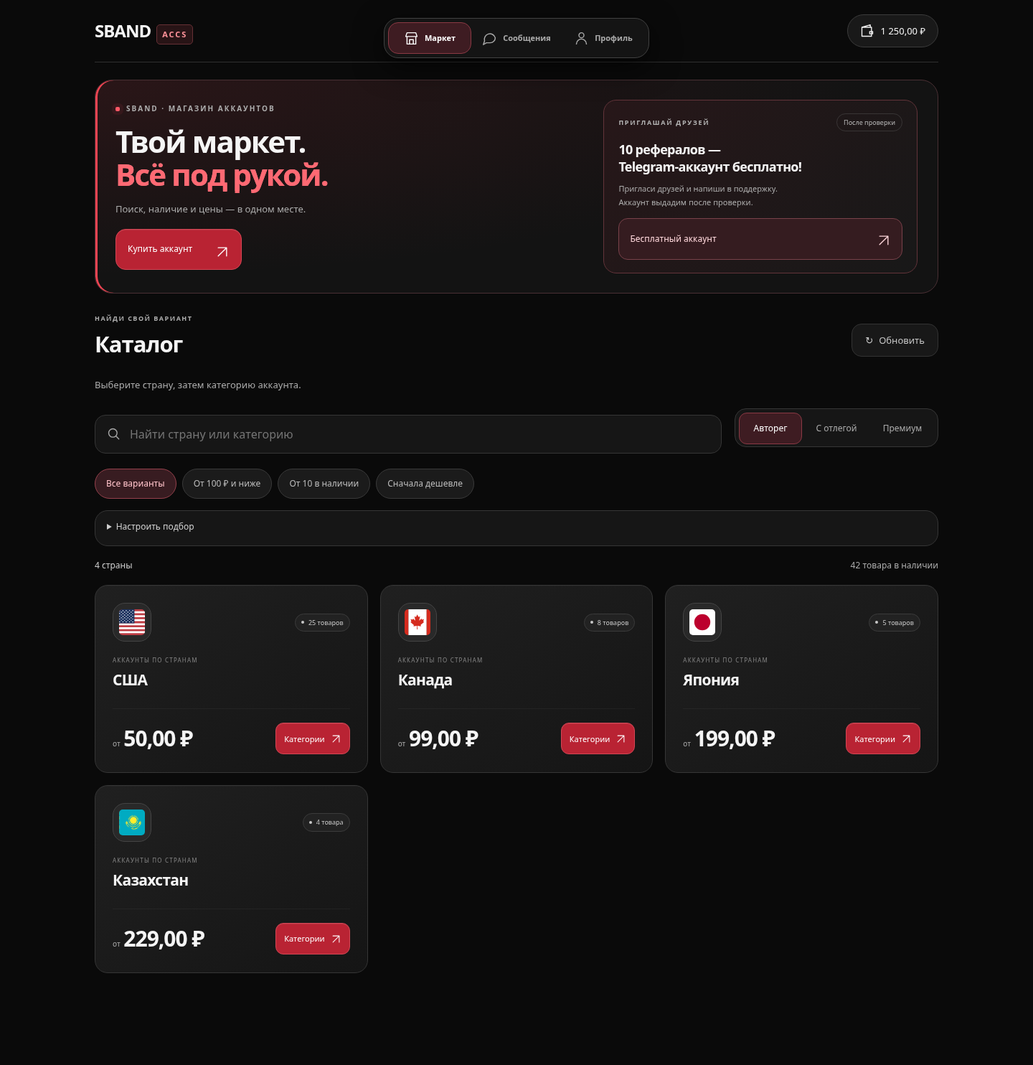
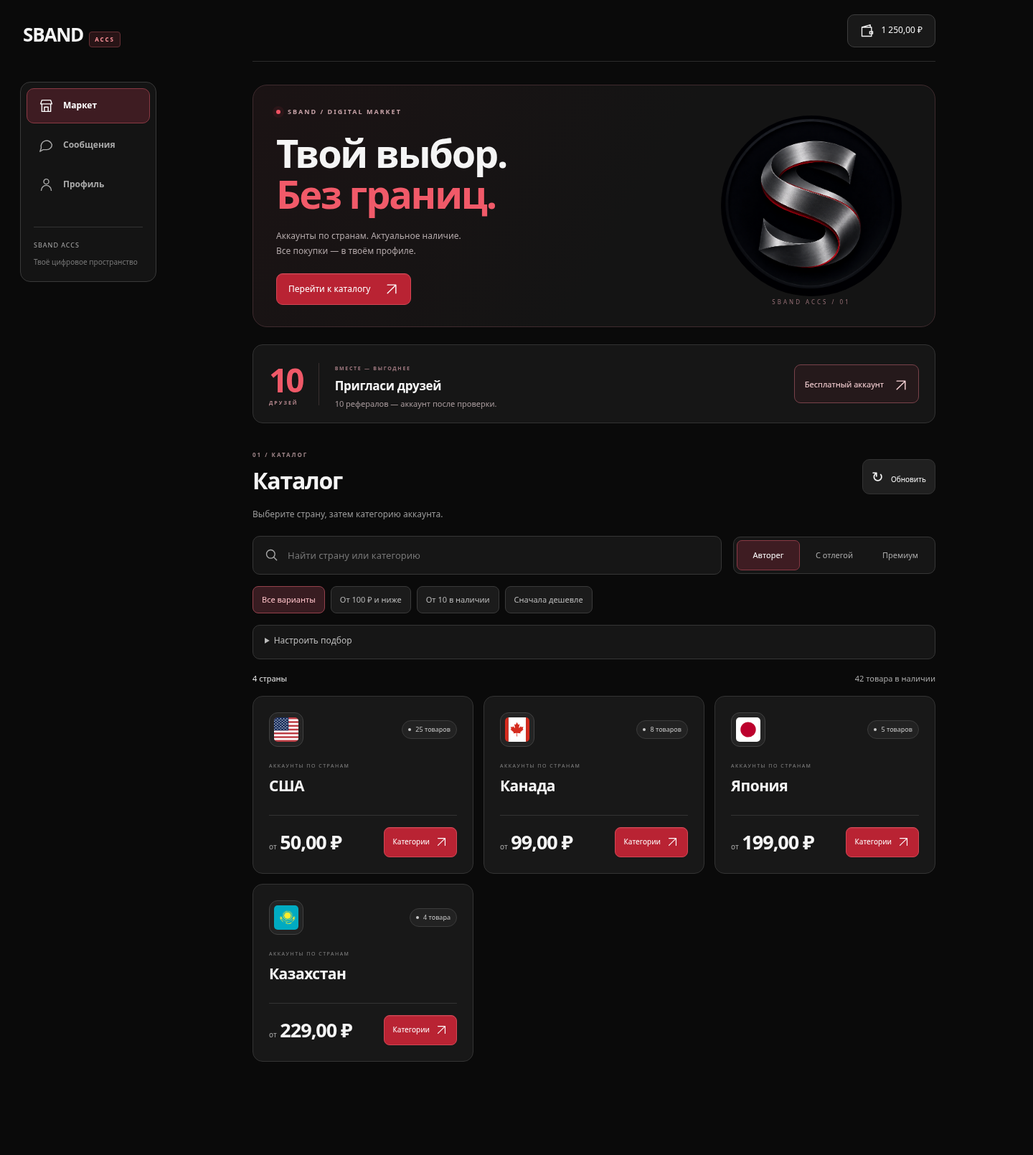
Redesign Mini App with studio catalogue, desktop sidebar and account overview

diff --git a/miniapp/storefront_v2/studio.css b/miniapp/storefront_v2/studio.css
@@ -1,0 +1,63 @@
+/* Storefront Studio. Replaces discovery.css and workspace.css on the customer UI. */
+.premium-store{--studio-red:#e54556;--studio-border:#303030;background:#0a0a0a;font-feature-settings:"cv11","ss01"}
+.premium-store .shell{width:min(1440px,100%);padding:0 36px 130px;margin:auto}
+.skip-link{position:fixed;left:16px;top:-80px;z-index:100;background:#fff;color:#111;border-radius:12px;padding:12px 18px}.skip-link:focus{top:16px}
+.premium-store .top{height:86px;margin:0 0 32px;padding:0;border-bottom:1px solid #2c2c2c}
+.premium-store .brand{font-size:26px;letter-spacing:-1.2px}.premium-store .brand span{font-size:8px;letter-spacing:2px;border-radius:4px}
+.premium-store .wallet{min-height:44px;border-radius:10px;background:#191919;border-color:#3d3d3d;font-size:12px}
+.premium-store .market-hero{display:grid;grid-template-columns:minmax(0,1fr) 280px;gap:24px;align-items:center;margin:0 0 24px;padding:28px 32px;background:linear-gradient(120deg,#1b1314,#141414 55%);border:1px solid #3f2b2e;border-radius:20px;position:relative;overflow:hidden;box-shadow:none}
+.premium-store .hero-copy{padding:0;z-index:1}.premium-store .hero-copy .eyebrow{font-size:9px;letter-spacing:2px;color:#c7a3a8;display:flex;align-items:center;gap:10px}.brand-dot{width:6px;height:6px;background:#ef5263;border-radius:50%}
+.premium-store .hero-copy h1{font-size:clamp(34px,4vw,54px);line-height:1.06;letter-spacing:-2.2px;margin:22px 0 18px;font-weight:720}
+.premium-store .hero-copy h1 span{color:#f15a69;background:none;-webkit-text-fill-color:initial}
+.premium-store .hero-copy>p{font-size:12px;line-height:1.8;margin:0 0 20px;color:#b1a7a8}
+.premium-store #browse-accounts{font-size:12px;min-height:44px;padding:10px 16px;border-radius:9px;display:flex;align-items:center;gap:20px}
+.studio-art{position:relative;display:grid;place-items:center;width:280px;height:280px;isolation:isolate}.studio-art:before{content:'';position:absolute;inset:20px;border:1px solid #6e343c;border-radius:50%;z-index:-1}.studio-art img{width:90%;height:90%;object-fit:contain;border-radius:50%;filter:contrast(1.03)}.studio-art>span{position:absolute;bottom:0;font-size:8px;letter-spacing:3px;color:#956f75}
+.premium-store .referral-spotlight{display:flex;gap:22px;align-items:center;border:1px solid #333;background:#161616;border-radius:14px;padding:18px 22px;margin:0 0 38px;box-shadow:none}
+.premium-store .referral-spotlight:after{display:none}.referral-number{font-size:46px;line-height:1;letter-spacing:-3px;color:#ef5968;font-weight:700;border-right:1px solid #393030;padding-right:22px;flex-shrink:0}.referral-number>span{display:block;font-size:7px;letter-spacing:2px;color:#b6888e;margin-top:6px}
+.premium-store .referral-copy{flex:1;min-width:0}.premium-store .referral-spotlight h2{font-size:17px;margin:5px 0;line-height:1.3;letter-spacing:-.3px}.premium-store .referral-spotlight h2 br{display:none}.referral-copy p{font-size:11px;color:#a99b9d;margin:0}.referral-copy .mini-label{font-size:7px;color:#9d777e;letter-spacing:1.7px}
+.premium-store .referral-spotlight .spotlight-button{width:auto;min-height:44px;padding:10px 14px;border-radius:9px;font-size:11px;gap:14px;background:#25191b}
+.premium-store .catalog-heading{margin-bottom:8px}.premium-store .catalog-heading h2{font-size:32px;letter-spacing:-1.2px;margin:8px 0 10px}.premium-store .catalog-heading .eyebrow{font-size:8px;letter-spacing:2px;color:#9e8588}.premium-store .catalog-section>.lead{font-size:12px;margin:0 0 20px;color:#999}
+.catalog-refresh{font-size:20px;min-width:44px;min-height:44px;padding:8px 12px;border-radius:10px}.catalog-refresh>span{font-size:10px;margin-left:5px}
+.premium-store .catalog-controls{display:flex;gap:16px;margin-bottom:16px;align-items:center}.premium-store .search{min-width:0;flex:1}.premium-store .search input{min-height:52px;width:100%;font-size:13px;border-radius:10px;padding-right:45px;background:#161616}.search #clear-search{position:absolute;right:6px;top:50%;transform:translateY(-50%);width:38px;min-height:38px;padding:0;font-size:22px;border:0;background:none;color:#aaa}.search #clear-search[hidden]{display:none}
+.premium-store .catalog-controls .segments{margin:0;height:52px;border-radius:10px;padding:4px;flex-shrink:0}.premium-store .segments button{min-height:42px;min-width:88px;padding:7px 14px;font-size:11px}.premium-store .catalog-controls .selection-track{border-radius:7px}
+.quick-picks{display:flex;flex-wrap:wrap;gap:8px;margin-bottom:16px}.quick-picks button{min-height:38px;padding:8px 12px;border-radius:8px;font-size:11px}
+.catalog-options{border:1px solid #303030;border-radius:10px;background:#131313;margin-bottom:18px;padding:0 16px}.catalog-options summary{cursor:pointer;min-height:46px;padding:12px 0;font-size:12px;color:#bbb;list-style-position:inside}
+.catalog-refine{display:flex;gap:14px;align-items:flex-end;flex-wrap:wrap;padding:14px 0;border-top:1px solid #303030}.catalog-refine label{display:grid;gap:8px;font-size:11px;flex:1;min-width:150px;color:#aaa}.catalog-refine select{width:100%;min-height:44px;font-size:12px}.catalog-refine button{min-height:44px;font-size:11px}
+.catalog-view-tools{display:flex;align-items:center;margin:10px 0}.view-toggle{display:flex;gap:4px;padding:4px;border:1px solid #333;border-radius:10px}.view-toggle button{font-size:11px;min-height:38px;padding:8px 14px;border:0;background:none}.view-toggle button[aria-pressed=true]{background:#382125;color:#ffc6ce;border-radius:6px}
+.catalog-summary{display:flex;align-items:center;justify-content:space-between;gap:16px;padding-bottom:16px}.catalog-summary .eyebrow{font-size:8px}.catalog-sort{display:flex;align-items:center;gap:12px;font-size:11px;color:#aaa}.catalog-sort select{font-size:12px;min-height:44px;max-width:210px}
+.catalog-result-meta{display:flex;justify-content:space-between;align-items:center;gap:16px;margin:0 0 16px;font-size:11px;color:#a1a1a1}.catalog-result-meta #count{color:#e5e5e5}.filter-note{font-size:11px;line-height:1.7;color:#aaa;margin-bottom:18px}
+.active-conditions{display:flex;flex-wrap:wrap;gap:8px;margin-bottom:14px}.condition-chip{border-radius:8px;min-height:40px;font-size:11px;padding:8px 12px}.search-context{padding:12px 16px;border:1px solid #333;border-radius:10px;margin-bottom:16px;overflow-wrap:anywhere;font-size:12px}
+.active-conditions[hidden],.filter-note[hidden],.search-context[hidden],.catalog-refine button[hidden]{display:none}
+.premium-store .grid{grid-template-columns:repeat(3,minmax(0,1fr));gap:14px}.premium-store .category{border:1px solid #343434;background:#181818;min-height:220px;padding:22px;border-radius:14px;box-shadow:none;gap:0;transition:border-color 160ms,background 160ms}
+.premium-store .category:hover,.premium-store .category:focus-within{transform:none;background:#1e191a;border-color:#a84b56;box-shadow:none}.premium-store .category:after{display:none}.premium-store .category-head{margin-bottom:22px}.premium-store .country-avatar{width:48px;height:48px;border-radius:12px;background:#242424;border-color:#414141;padding:6px}.premium-store .stock{font-size:9px;border-color:#3f3f3f;color:#bbb;background:#232323}
+.premium-store .category-overline{font-size:7px;letter-spacing:1.5px;margin-bottom:8px;color:#858585}.premium-store .category h3{font-size:21px;letter-spacing:-.5px;min-height:32px;margin:0 0 22px}.premium-store .category-footer{margin-top:auto;border-top:1px solid #333;padding-top:16px;display:flex;align-items:center;justify-content:space-between;gap:12px}.premium-store .category-price{font-size:27px;letter-spacing:-1px}.premium-store .category-price small{font-size:10px}
+.premium-store .category .category-action{width:auto;min-height:42px;padding:9px 12px;font-size:10px;gap:8px;justify-content:space-between;border-radius:8px}.premium-store .category .category-action .ui-icon{width:17px;height:17px}
+.premium-store .grid.list-view{grid-template-columns:1fr;gap:10px}.premium-store .list-view .category{display:grid;grid-template-columns:80px minmax(0,1fr) minmax(230px,.6fr);align-items:center;gap:8px 20px;min-height:112px;padding:18px 22px}.premium-store .list-view .category-head{grid-column:1;grid-row:1/3;flex-direction:column;align-items:flex-start;gap:8px;margin:0}.premium-store .list-view .category-overline{grid-column:2;grid-row:1;margin:0;align-self:end}.premium-store .list-view .category h3{grid-column:2;grid-row:2;margin:0;min-height:0;align-self:start}.premium-store .list-view .category-footer{grid-column:3;grid-row:1/3;margin:0;border:0;padding:0;flex-wrap:wrap}
+.catalog-empty{grid-column:1/-1;padding:44px 24px;border:1px dashed #494949;border-radius:14px;display:flex;flex-direction:column;align-items:center;text-align:center}.catalog-empty>.ui-icon{width:32px;height:32px;margin-bottom:20px;color:#b97981}.catalog-empty h3{margin-bottom:10px}.catalog-empty p{max-width:360px;font-size:13px}.catalog-empty button{font-size:12px}
+.premium-store .bottom-nav{border-radius:16px;padding:6px;background:#151515f5;border-color:#3a3a3a}.premium-store .bottom-nav button{min-height:54px;border-radius:10px;font-size:10px}.premium-store .bottom-nav .selection-track{border-radius:10px}.studio-nav-note{display:none}
+.premium-store #profile h1,.premium-store #messages h1{font-size:38px;letter-spacing:-1.4px;margin:10px 0 24px}.premium-store #profile>.eyebrow,.premium-store #messages>.eyebrow{font-size:9px;color:#b48289}
+.premium-store .identity{padding:0 0 24px;margin:0 0 24px;border-bottom:1px solid #303030}.premium-store .identity .avatar{border-radius:16px;width:54px;height:54px}.premium-store .identity strong{font-size:19px}
+.account-overview{display:grid;grid-template-columns:1.2fr 1fr;gap:18px;margin:0 0 22px}.premium-store .balance-card{background:radial-gradient(ellipse at 90% 0,#78232c44,transparent 80%),#181818;border:1px solid #62323a;border-radius:16px;padding:26px;gap:16px}.premium-store .balance-card>strong{font-size:48px}.premium-store .balance-card>button{min-width:0;align-self:stretch;border-radius:9px}.premium-store .stats{display:grid;grid-template-columns:1fr;margin:0;padding:0;border:1px solid #333;border-radius:16px;overflow:hidden;gap:0;background:#151515}.premium-store .stats>div,.premium-store .stats>div:first-child{border:0;border-bottom:1px solid #303030;padding:15px 20px;display:flex;justify-content:space-between;align-items:center;gap:12px}.premium-store .stats>div:last-child{border-bottom:0}.premium-store .stats strong{font-size:18px;margin:0}.premium-store .stats span{font-size:11px;color:#aaa}
+.premium-store .profile-invite{margin:0 0 26px;border-radius:14px;padding:20px;background:#211719;border-color:#543038}.premium-store .profile-invite strong{font-size:16px}.premium-store .menu-list{display:grid;grid-template-columns:1fr 1fr;gap:10px;background:none;border:0}.premium-store .menu-list button{padding:18px;border:1px solid #333;border-radius:12px;background:#171717;font-size:12px}.premium-store .menu-list button:hover{background:#21191b;border-color:#70424b}
+.premium-store .support-status{border-radius:14px;background:#181818}.premium-store .bubble{border-radius:14px;background:#1c1c1c;font-size:13px}.premium-store .bubble.mine{background:#341e23;border-color:#65343d}.premium-store .composer{border-radius:14px;background:#161616;border-color:#393939}.premium-store .composer textarea{font-size:13px}.premium-store dialog{border-radius:18px}.premium-store .modal-heading{border-bottom:1px solid #333;padding-bottom:18px}.premium-store .modal-heading h2{font-size:23px;letter-spacing:-.7px}.premium-store .purchase-summary{border-radius:12px}.premium-store .row{padding-block:15px}.premium-store .row small{font-size:11px}
+@media(min-width:1100px){
+ .premium-store .shell{padding-left:252px;padding-right:36px}
+ .premium-store .brand{position:fixed;left:32px;top:28px;z-index:5}.premium-store .top{justify-content:flex-end;height:86px}
+ .premium-store .bottom-nav{top:114px;bottom:auto;left:28px;transform:none;width:190px;display:flex;flex-direction:column;padding:8px;gap:6px;border-radius:14px;box-shadow:none;backdrop-filter:none}
+ .premium-store .bottom-nav button{flex-direction:row;justify-content:flex-start;padding:13px 16px;font-size:12px;min-height:48px;gap:13px;flex:initial}
+ .studio-nav-note{display:grid;gap:8px;margin:28px 10px 10px;padding-top:18px;border-top:1px solid #333;font-size:9px;letter-spacing:1px;color:#aaa}.studio-nav-note span{font-size:10px;letter-spacing:0;line-height:1.7;color:#777}
+}
+@media(max-width:1099px){.premium-store .grid{grid-template-columns:repeat(2,minmax(0,1fr))}.premium-store .catalog-controls{flex-direction:column;align-items:stretch}.premium-store .catalog-controls .segments{width:100%}.premium-store .segments button{flex:1;min-width:0}.studio-art{width:230px;height:230px}.premium-store .market-hero{grid-template-columns:minmax(0,1fr) 230px}}
+@media(max-width:600px){
+ .premium-store .shell{padding:0 16px 118px}.premium-store .top{height:70px;margin-bottom:20px}.premium-store .brand{font-size:23px}.premium-store .wallet{padding:10px 12px;font-size:11px}
+ .premium-store .market-hero{grid-template-columns:minmax(0,1fr) 100px;padding:20px 16px;gap:4px;margin-bottom:12px;border-radius:14px}.premium-store .hero-copy .eyebrow{font-size:7px;letter-spacing:1.3px;gap:8px}.premium-store .hero-copy h1{font-size:30px;line-height:1.08;letter-spacing:-1.2px;margin:16px 0 0}.premium-store .hero-copy h1 span{font-size:24px}.premium-store .hero-copy>p,.premium-store #browse-accounts{display:none}.studio-art{width:100px;height:120px}.studio-art img{width:100%;height:auto}.studio-art>span{font-size:5px;letter-spacing:1px}.studio-art:before{inset:10px;border-color:#5c3037}
+ .premium-store .referral-spotlight{padding:14px;gap:12px;border-radius:12px;margin-bottom:26px}.referral-number{font-size:31px;letter-spacing:-2px;padding-right:12px}.referral-number>span{font-size:5px;letter-spacing:1px}.referral-copy .mini-label{display:none}.premium-store .referral-spotlight h2{font-size:12px;margin:0 0 4px}.premium-store .referral-spotlight h2 br{display:block}.referral-copy p{font-size:9px;line-height:1.5}.premium-store .referral-spotlight .spotlight-button{max-width:106px;font-size:9px;padding:9px;gap:8px;line-height:1.4}.spotlight-button .ui-icon{width:16px;height:16px}
+ .premium-store .catalog-heading h2{font-size:27px}.premium-store .catalog-section>.lead{font-size:11px;margin-bottom:16px}.catalog-refresh>span{display:none}.premium-store .catalog-controls{gap:10px;margin-bottom:12px}.premium-store .search input{min-height:48px;font-size:12px}.premium-store .catalog-controls .segments{height:48px}.premium-store .segments button{min-height:38px;font-size:11px}
+ .quick-picks{flex-wrap:nowrap;overflow:auto;max-width:100%;gap:6px;padding-bottom:4px;scrollbar-width:thin}.quick-picks button{flex-shrink:0;font-size:10px;min-height:36px;padding:8px 11px}.catalog-options{margin-bottom:16px}.catalog-options summary{font-size:11px;min-height:44px}.catalog-refine{gap:12px}.catalog-refine label{min-width:110px;font-size:10px}.catalog-refine select{font-size:11px;padding-inline:10px}.catalog-summary{align-items:flex-end}.catalog-summary>.eyebrow{display:none}.catalog-sort{display:grid;gap:6px;max-width:65%}.catalog-sort select{max-width:100%;width:100%;font-size:11px}.catalog-result-meta{font-size:10px;gap:12px}.catalog-result-meta #catalog-stock{max-width:60%;text-align:right}.filter-note{font-size:10px}
+ .premium-store .grid{grid-template-columns:1fr;gap:10px}.premium-store .category,.premium-store .list-view .category{display:grid;grid-template-columns:54px minmax(0,1fr);grid-template-rows:auto auto auto;gap:6px 14px;padding:18px;min-height:0;border-radius:12px}
+ .premium-store .category-head,.premium-store .list-view .category-head{grid-column:1;grid-row:1/4;display:flex;flex-direction:column;align-items:flex-start;justify-content:flex-start;gap:10px;margin:0;align-self:start}.premium-store .country-avatar{width:48px;height:48px;border-radius:10px}.premium-store .stock{font-size:8px;padding:4px;white-space:nowrap}.premium-store .stock:before{display:none}
+ .premium-store .category-overline,.premium-store .list-view .category-overline{grid-column:2;grid-row:1;font-size:6px;margin:0;letter-spacing:1px;align-self:auto}.premium-store .category h3,.premium-store .list-view .category h3{grid-column:2;grid-row:2;font-size:20px;min-height:0;margin:0;align-self:auto}
+ .premium-store .category-footer,.premium-store .list-view .category-footer{grid-column:2;grid-row:3;display:flex;align-items:center;justify-content:space-between;gap:8px;flex-wrap:wrap;margin:4px 0 0;padding:0;border:0}.premium-store .category-price{font-size:24px}.premium-store .category-price small{font-size:9px}.premium-store .category .category-action{width:auto;min-height:40px;font-size:10px;padding:9px 10px}
+ .premium-store #profile h1,.premium-store #messages h1{font-size:32px}.account-overview{grid-template-columns:1fr;gap:12px}.premium-store .balance-card{padding:22px}.premium-store .balance-card>strong{font-size:42px}.premium-store .stats{grid-template-columns:repeat(3,minmax(0,1fr));border-radius:12px}.premium-store .stats>div,.premium-store .stats>div:first-child{display:grid;gap:8px;padding:14px 10px;border:0;border-right:1px solid #333;min-width:0}.premium-store .stats>div:last-child{border-right:0}.premium-store .stats strong{font-size:15px;overflow-wrap:anywhere}.premium-store .stats span{font-size:9px}.premium-store .profile-invite strong{font-size:14px}.premium-store .menu-list{grid-template-columns:1fr}.premium-store .menu-list button{padding:16px}
+}
+@media(prefers-reduced-motion:reduce){.premium-store .category{transition:none}}

diff --git a/miniapp/storefront_v2/index.html b/miniapp/storefront_v2/index.html
@@ -1,17 +1,18 @@
-<!doctype html><html lang="ru"><head><meta charset="utf-8"><meta name="viewport" content="width=device-width,initial-scale=1,viewport-fit=cover"><meta name="theme-color" content="#0a0a0a"><meta name="color-scheme" content="dark"><title>SBAND · Маркет</title><link rel="icon" href="/assets/sband.png"><link rel="stylesheet" href="/store-assets/app.css?v=20261115-crimson1"><script src="https://telegram.org/js/telegram-web-app.js" defer></script><script src="/assets/ui.js?v=20261115-crimson1" defer></script><script src="/store-assets/app.js?v=20261115-crimson1" defer></script><link rel="stylesheet" href="/assets/ui.css?v=20261115-crimson1"><link rel="stylesheet" href="/assets/premium.css?v=20261115-crimson1"><link rel="stylesheet" href="/store-assets/discovery.css?v=20261115-crimson1"><link rel="stylesheet" href="/store-assets/workspace.css?v=20261115-crimson1"><link rel="stylesheet" href="/assets/crimson.css?v=20261115-crimson1"></head><body class="premium-store"><a href="#main-content" class="skip-link">Перейти к содержимому</a>
+<!doctype html><html lang="ru"><head><meta charset="utf-8"><meta name="viewport" content="width=device-width,initial-scale=1,viewport-fit=cover"><meta name="theme-color" content="#0a0a0a"><meta name="color-scheme" content="dark"><title>SBAND · Маркет</title><link rel="icon" href="/assets/sband.png"><link rel="stylesheet" href="/store-assets/app.css?v=20261115-studio1"><script src="https://telegram.org/js/telegram-web-app.js" defer></script><script src="/assets/ui.js?v=20261115-studio1" defer></script><script src="/store-assets/app.js?v=20261115-studio1" defer></script><link rel="stylesheet" href="/assets/ui.css?v=20261115-studio1"><link rel="stylesheet" href="/assets/premium.css?v=20261115-studio1"><link rel="stylesheet" href="/assets/crimson.css?v=20261115-studio1"><link rel="stylesheet" href="/store-assets/studio.css?v=20261115-studio1"></head><body class="premium-store"><a href="#main-content" class="skip-link">Перейти к содержимому</a>
 <div class="shell"><header class="top"><a class="brand" href="#market">SBAND<span>ACCS</span></a><button id="wallet" class="wallet" aria-label="Открыть баланс">— ₽</button></header>
 <main id="main-content" tabindex="-1">
 <section id="market" class="page">
   <div class="market-hero">
-    <div class="hero-copy"><div class="eyebrow"><span class="brand-dot"></span> SBAND · Магазин аккаунтов</div><h1>Твой маркет.<br><span>Всё под рукой.</span></h1><p>Поиск, наличие и цены — в одном месте.</p><div class="hero-actions"><button id="browse-accounts" class="primary">Купить аккаунт <span aria-hidden="true">↗</span></button><span class="hero-note">Автоматическая выдача<br>после оплаты</span></div><div class="hero-benefits"><span>Без лишних шагов</span><span>Поддержка рядом</span></div></div>
-    <aside class="referral-spotlight"><div class="spotlight-top"><span class="mini-label">Приглашай друзей</span><span class="campaign-status">После проверки</span></div><div class="referral-art" aria-hidden="true"><span>10</span><div class="orbit orbit-one"></div><div class="orbit orbit-two"></div><span class="art-caption">ДРУЗЕЙ → АККАУНТ</span></div><h2>10 рефералов —<br>Telegram-аккаунт бесплатно!</h2><p>Пригласи друзей и напиши в поддержку.<br>Аккаунт выдадим после проверки.</p><button data-free-account class="spotlight-button">Бесплатный аккаунт <span aria-hidden="true">↗</span></button></aside>
+    <div class="hero-copy"><div class="eyebrow"><span class="brand-dot"></span> SBAND / DIGITAL MARKET</div><h1>Твой выбор.<br><span>Без границ.</span></h1><p>Аккаунты по странам. Актуальное наличие.<br>Все покупки — в твоём профиле.</p><button id="browse-accounts" class="primary">Перейти к каталогу <span aria-hidden="true">↗</span></button></div>
+    <div class="studio-art" aria-hidden="true"><img src="/assets/sband.png" alt="" width="280" height="280"><span>SBAND ACCS / 01</span></div>
   </div>
-  <div id="catalog-section" class="catalog-section"><div class="catalog-heading"><div><div class="eyebrow">Найди свой вариант</div><button id="back-countries" class="subtle" hidden>← Все страны</button><h2 id="catalog-title">Каталог</h2></div><button id="refresh-catalog" class="catalog-refresh" aria-label="Обновить каталог">↻ <span>Обновить</span></button></div><p id="catalog-caption" class="muted lead">Выберите страну, затем категорию аккаунта.</p>
+  <aside class="referral-spotlight"><div class="referral-number" aria-hidden="true">10<span>ДРУЗЕЙ</span></div><div class="referral-copy"><span class="mini-label">Вместе — выгоднее</span><h2>Пригласи друзей</h2><p>10 рефералов — аккаунт после проверки.</p></div><button data-free-account class="spotlight-button">Бесплатный аккаунт <span aria-hidden="true">↗</span></button></aside>
+  <div id="catalog-section" class="catalog-section"><div class="catalog-heading"><div><div class="eyebrow">01 / КАТАЛОГ</div><button id="back-countries" class="subtle" hidden>← Все страны</button><h2 id="catalog-title">Каталог</h2></div><button id="refresh-catalog" class="catalog-refresh" aria-label="Обновить каталог">↻ <span>Обновить</span></button></div><p id="catalog-caption" class="muted lead">Выберите страну, затем категорию аккаунта.</p>
   <div class="catalog-controls"><div class="search"><input id="search" type="search" placeholder="Найти страну или категорию" aria-label="Поиск категории"><span aria-hidden="true">⌕</span><button id="clear-search" type="button" aria-label="Очистить поиск" hidden>×</button></div><div class="segments" role="group" aria-label="Вид аккаунта"><button data-mode="auto" class="selected" aria-pressed="true">Авторег</button><button data-mode="aged" aria-pressed="false">С отлегой</button><button data-mode="premium" aria-pressed="false">Премиум</button></div></div>
   <div class="quick-picks" role="group" aria-label="Быстрый подбор"><button data-preset="all" aria-pressed="true">Все варианты</button><button data-preset="budget" aria-pressed="false">От 100 ₽ и ниже</button><button data-preset="stock" aria-pressed="false">От 10 в наличии</button><button data-preset="price" aria-pressed="false">Сначала дешевле</button></div><details id="catalog-options" class="catalog-options"><summary>Настроить подбор <span id="active-condition-count"></span></summary><div class="catalog-refine" role="group" aria-label="Условия подбора"><label>Начальная цена до<select id="budget-filter"><option value="">Любая</option><option value="100">100 ₽</option><option value="300">300 ₽</option><option value="500">500 ₽</option><option value="1000">1 000 ₽</option></select></label><label>Наличие в категории<select id="stock-filter"><option value="">Любое</option><option value="5">От 5 товаров</option><option value="10">От 10 товаров</option><option value="25">От 25 товаров</option></select></label><button id="reset-catalog" class="subtle" hidden>Сбросить условия</button></div><p id="budget-note" class="filter-note" hidden>Подбор по начальной цене категории. Точная цена выбранного аккаунта показывается перед оплатой.</p><div class="catalog-view-tools"><div class="view-toggle" role="group" aria-label="Отображение каталога"><button data-view="grid" aria-pressed="true">Плитки</button><button data-view="list" aria-pressed="false">Список</button></div></div><div class="catalog-summary"><div><span class="eyebrow">Твой выбор</span></div><label class="catalog-sort">Сортировка<select id="catalog-sort"><option value="default">Рекомендуемое</option><option value="price">Сначала дешевле</option><option value="stock">Больше в наличии</option><option value="name">По названию</option></select></label></div></details><div class="catalog-result-meta"><span id="count" role="status"></span><span id="catalog-stock" class="muted" role="status"></span></div><div id="active-conditions" class="active-conditions" hidden></div><div id="search-context" class="search-context" hidden></div><div id="categories" class="grid" aria-live="polite"></div></div>
 </section>
 <section id="messages" class="page" hidden><div class="eyebrow">Всегда на связи</div><h1>Сообщения</h1><p class="muted lead">Поможем с выбором, покупкой и входом в аккаунт.</p><div class="support-status"><span class="support-symbol" aria-hidden="true">S</span><div><strong>Поддержка Sband</strong><span>Ответ придёт сюда и в Telegram</span></div></div><button id="older-chat" class="subtle" hidden>Более ранние сообщения</button><div id="chat-history" class="chat" aria-live="polite"></div><form id="chat-form" class="composer"><label class="sr-only" for="chat-body">Сообщение поддержке</label><textarea id="chat-body" maxlength="4000" rows="2" placeholder="Напишите сообщение…" required></textarea><button class="primary" type="submit">Отправить</button></form></section>
-<section id="profile" class="page" hidden><div class="eyebrow">Личный кабинет</div><h1>Профиль</h1><div class="identity"><div id="avatar" class="avatar">S</div><div><strong id="username">—</strong><p id="user-id" class="muted"></p></div></div><div class="balance-card"><span class="balance-decoration" aria-hidden="true">SB</span><span class="muted">Доступно на балансе</span><strong id="balance">— ₽</strong><button id="topup" class="primary">Пополнить баланс</button></div><div class="stats"><div><span>Пополнено</span><strong id="deposited">—</strong></div><div><span>Потрачено</span><strong id="spent">—</strong></div><div><span>Покупок</span><strong id="purchased">—</strong></div></div><button class="profile-invite" data-free-account><span><small>Приглашай друзей</small><strong>Твой следующий аккаунт — бесплатно</strong><span>10 рефералов · после проверки</span></span><span class="invite-arrow" aria-hidden="true">↗</span></button><div class="profile-section-label">Твой кабинет</div><div class="menu-list"><button data-action="orders">Мои покупки<span>→</span></button><button data-action="transactions">История операций<span>→</span></button><button data-action="promo">Ввести промокод<span>→</span></button><button data-action="rewards">Бонусы<span>→</span></button><button data-action="referrals">Реферальная система<span>→</span></button><button data-action="information">Информация<span>→</span></button><button id="admin-link" hidden>Админ-панель<span>→</span></button></div></section>
-</main><nav class="bottom-nav" aria-label="Основная навигация"><button data-tab="market" class="selected" aria-current="page">Маркет</button><button data-tab="messages">Сообщения</button><button data-tab="profile">Профиль</button></nav></div>
+<section id="profile" class="page" hidden><div class="eyebrow">Личный кабинет</div><h1>Профиль</h1><div class="identity"><div id="avatar" class="avatar">S</div><div><strong id="username">—</strong><p id="user-id" class="muted"></p></div></div><div class="account-overview"><div class="balance-card"><span class="balance-decoration" aria-hidden="true">SB</span><span class="muted">Доступно на балансе</span><strong id="balance">— ₽</strong><button id="topup" class="primary">Пополнить баланс</button></div><div class="stats"><div><span>Пополнено</span><strong id="deposited">—</strong></div><div><span>Потрачено</span><strong id="spent">—</strong></div><div><span>Покупок</span><strong id="purchased">—</strong></div></div></div><button class="profile-invite" data-free-account><span><small>Приглашай друзей</small><strong>Твой следующий аккаунт — бесплатно</strong><span>10 рефералов · после проверки</span></span><span class="invite-arrow" aria-hidden="true">↗</span></button><div class="profile-section-label">Твой кабинет</div><div class="menu-list"><button data-action="orders">Мои покупки<span>→</span></button><button data-action="transactions">История операций<span>→</span></button><button data-action="promo">Ввести промокод<span>→</span></button><button data-action="rewards">Бонусы<span>→</span></button><button data-action="referrals">Реферальная система<span>→</span></button><button data-action="information">Информация<span>→</span></button><button id="admin-link" hidden>Админ-панель<span>→</span></button></div></section>
+</main><nav class="bottom-nav" aria-label="Основная навигация"><button data-tab="market" class="selected" aria-current="page">Маркет</button><button data-tab="messages">Сообщения</button><button data-tab="profile">Профиль</button><div class="studio-nav-note">SBAND ACCS<span>Твоё цифровое пространство</span></div></nav></div>
 <dialog id="modal" aria-labelledby="modal-title"><div class="modal-heading"><h2 id="modal-title"></h2><button id="close-modal" class="close" aria-label="Закрыть">×</button></div><div id="modal-content"></div></dialog><div id="toast" role="status" aria-live="polite" hidden></div>
 </body></html>

diff --git a/miniapp/storefront_v2/app.js b/miniapp/storefront_v2/app.js
@@ -238,7 +238,7 @@ $('close-modal').onclick=()=>SbandUI.close($('modal'));$('modal').addEventListen
 for(const id of ['wallet','topup'])$(id).onclick=()=>SbandUI.run($(id),topup).catch(e=>toast(e.message));
 $('admin-link').onclick=()=>location.assign('/admin-app');
 $('browse-accounts').onclick=()=>$('catalog-section').scrollIntoView({behavior:matchMedia('(prefers-reduced-motion: reduce)').matches?'instant':'smooth',block:'start'});
-document.querySelectorAll('.hero-actions button>span,.spotlight-button>span,.invite-arrow').forEach(n=>n.replaceChildren(SbandUI.icon('arrowUp')));
+document.querySelectorAll('#browse-accounts>span,.spotlight-button>span,.invite-arrow').forEach(n=>n.replaceChildren(SbandUI.icon('arrowUp')));
 document.querySelectorAll('[data-free-account]').forEach(b=>b.addEventListener('click',()=>SbandUI.run(b,freeAccount).catch(e=>toast(e.message))));
 document.querySelector('.brand').addEventListener('click',event=>{event.preventDefault();navigate('market');});
 

diff --git a/STOREFRONT-DISCOVERY.md b/STOREFRONT-DISCOVERY.md
@@ -98,3 +98,23 @@ sudo bash install.sh
 Ветка новой темы — `codex/crimson-theme`. До слияния её можно установить тем же
 процессом обновления, заменив имя ветки в команде `git switch`. Скриншоты витрины,
 профиля и админки находятся в `docs/previews/` и используют тестовые данные.
+
+## Mini App Studio
+
+Витрина получила новую компоновку в существующей чёрно-серо-красной палитре.
+На экранах от 1100 px навигация расположена слева, на узких экранах сохранена
+нижняя панель. Первый экран использует фирменный знак S; реферальное предложение
+выделено в отдельную компактную полосу. Каталог использует трёхколоночную сетку
+на компьютере, две колонки на планшете и компактные строки на телефоне.
+
+Профиль оформлен вокруг баланса и финансовой сводки: на компьютере они стоят
+рядом, на телефоне — последовательно. Меню профиля имеет две колонки на широком
+экране и одну на узком. Обновлены диалоги и оформление сообщений поддержки.
+
+`studio.css` заменяет подключения `discovery.css` и `workspace.css` в актуальной
+витрине. Админка и баннеры бота в этом этапе не меняются. Сохраняются поиск,
+быстрый подбор, фильтры, сортировка, режим списка, настройки отображения и
+серверная проверка стоимости покупки. Новых шрифтов и внешних библиотек нет.
+
+Ветка до слияния PR: `codex/miniapp-studio`. Обновление CSS/JS помечено версией
+`20261115-studio1`. На рабочий VPS изменения автоматически не устанавливаются.
